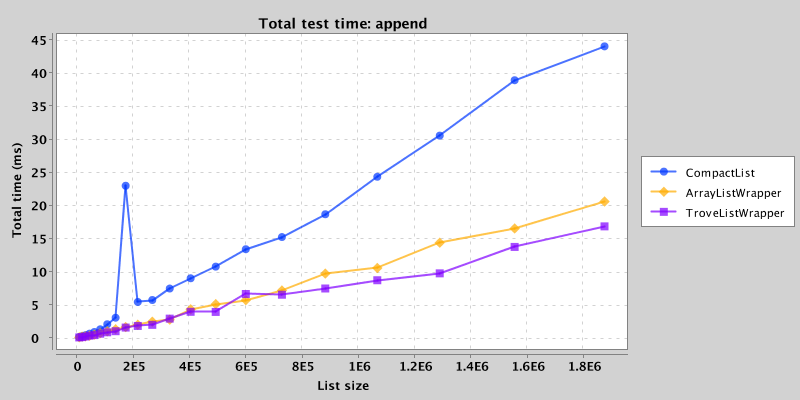
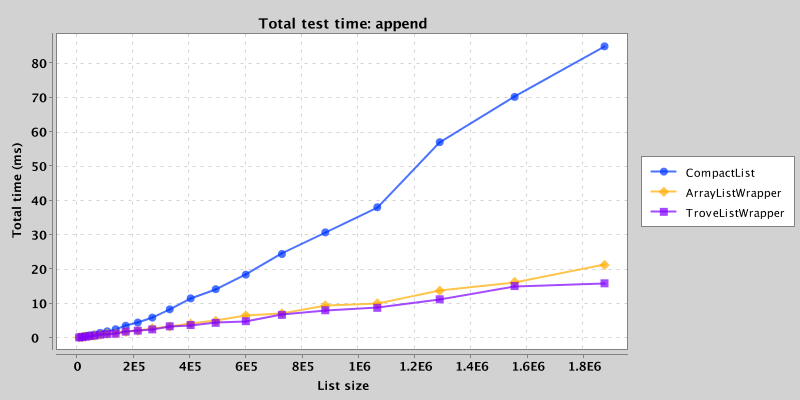
Improve memory usage for append by tuning min node size

diff --git a/src/main/java/net/kothar/compactlist/internal/Node.java b/src/main/java/net/kothar/compactlist/internal/Node.java
@@ -31,7 +31,7 @@ public class Node implements Iterable<Long>, LongList, Serializable {
 	private static final long serialVersionUID = 3105932349913959938L;
 
 	private static final int	READ_COMPACTION_DELAY	= 1 << 10;
-	private static final int	TARGET_LEAF_SIZE		= 1 << 16;
+	private static final int	TARGET_LEAF_SIZE		= 1 << 15;
 	private static final int	MAX_LEAF_SIZE			= 1 << 20;
 
 	protected int		size;

diff --git a/src/test/java/net/kothar/compactlist/CompactListBenchmark.java b/src/test/java/net/kothar/compactlist/CompactListBenchmark.java
@@ -490,7 +490,7 @@ public class CompactListBenchmark {
 		long elapsed = System.nanoTime() - start;
 		int runs = 1;
 
-		while (elapsed < 10_000_000 || runs < 3) {
+		while (elapsed < 100_000_000 || runs < 3) {
 			test.reset();
 			runs++;
 			test.run();
